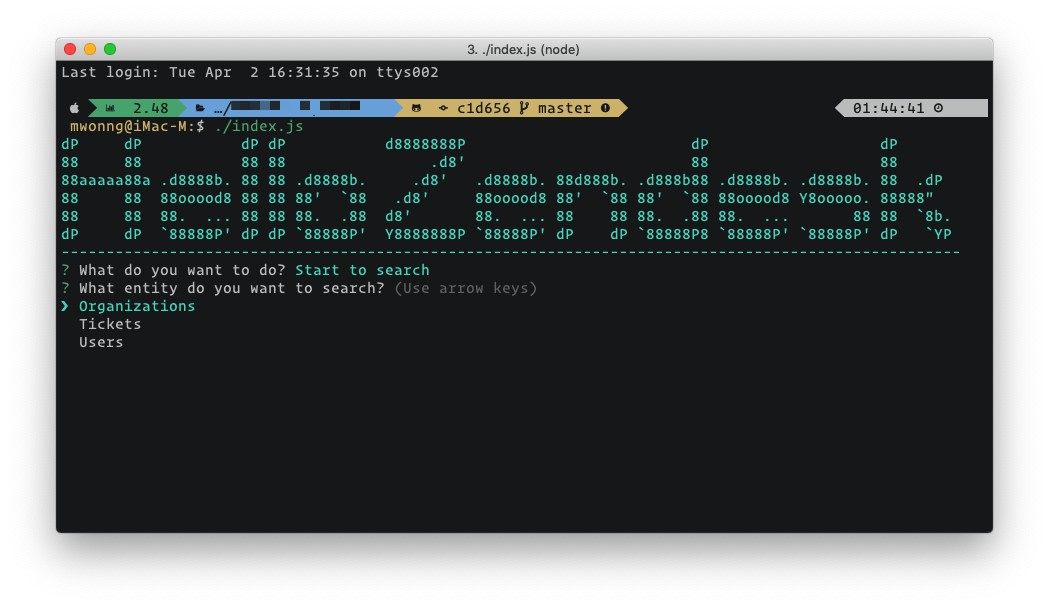
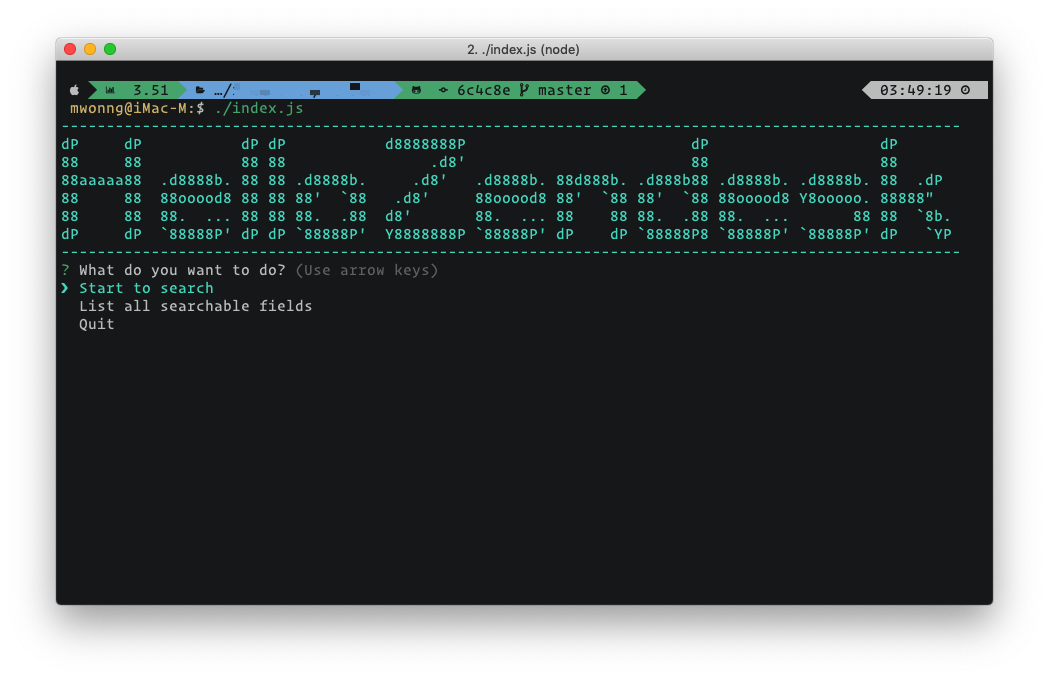
add pagenate for list field function

Changed region(s): [[0.0305, 0.0593, 0.9457, 0.5931], [0.0305, 0.86, 0.9457, 0.9193], [0.3966, 0.4745, 0.4576, 0.5041]]

diff --git a/src/main.js b/src/main.js
@@ -42,18 +42,20 @@ module.exports = {
     list: () => {
         const Data = new DataHandler();
         let entitiesArray = Data.loadingEntitiesList();
-        func.formateEntitiesName(entitiesArray)
-            .forEach(entity => {
-                let data = Data.loadingFields(entity);
-                output.line("---------------------------------------------");
-                output.line(`Available fields for ${entity}:`);
-                output.line("---------------------------------------------");
-                data.forEach(attr => output.line(attr));
-                output.line("  ");
-            });
+        output.pagenatePrint(func.formateEntitiesName(entitiesArray),SETTING.SEARCH_RESULT_PER_PAGE, listEntityFields);
+
+        function listEntityFields(entity) {
+            let data = Data.loadingFields(entity);
+            output.line("---------------------------------------------");
+            output.line(chalk.yellow(`Available fields for ${func.capitalize(entity)}:`));
+            output.line("---------------------------------------------");
+            data.forEach(attr => output.line(chalk.grey(attr)));
+            output.line("  ");
+        }
     },
 
     hello: () => {
+        output.line(chalk.cyan("----------------------------------------------------------------------------------------------------"));
         output.line(chalk.cyan("dP     dP           dP dP           d8888888P                         dP                   dP       "));
         output.line(chalk.cyan("88     88           88 88                .d8'                         88                   88       "));
         output.line(chalk.cyan("88aaaaa88  .d8888b. 88 88 .d8888b.     .d8'   .d8888b. 88d888b. .d888b88 .d8888b. .d8888b. 88  .dP  "));

diff --git a/src/helpers/SearchService.js b/src/helpers/SearchService.js
@@ -12,7 +12,7 @@ class Search {
 
         let res = data.filter(record => {
             if (Array.isArray(record[field])) {                         // if aim field is array, search in this array;
-                var set = new Set(record[field]);
+                let set = new Set(record[field]);
                 return set.has(keyword);
             }
 
